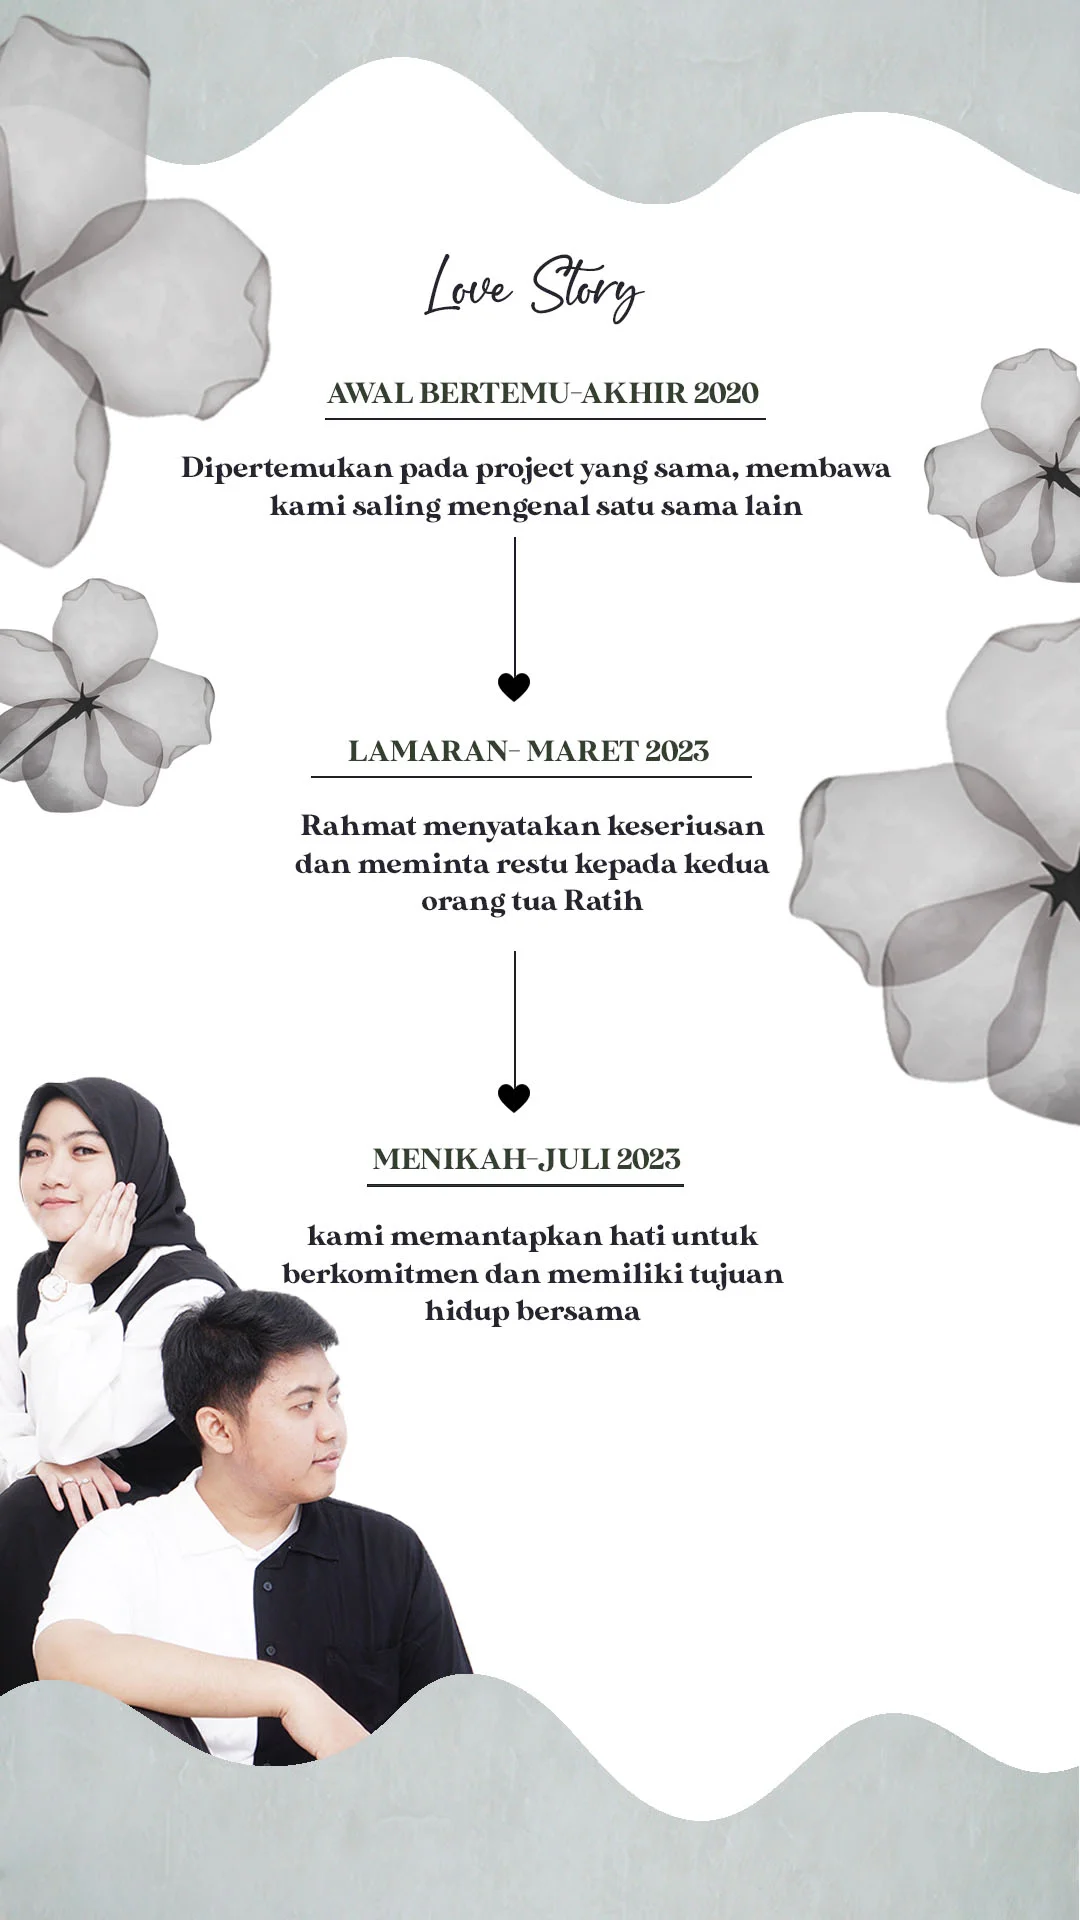
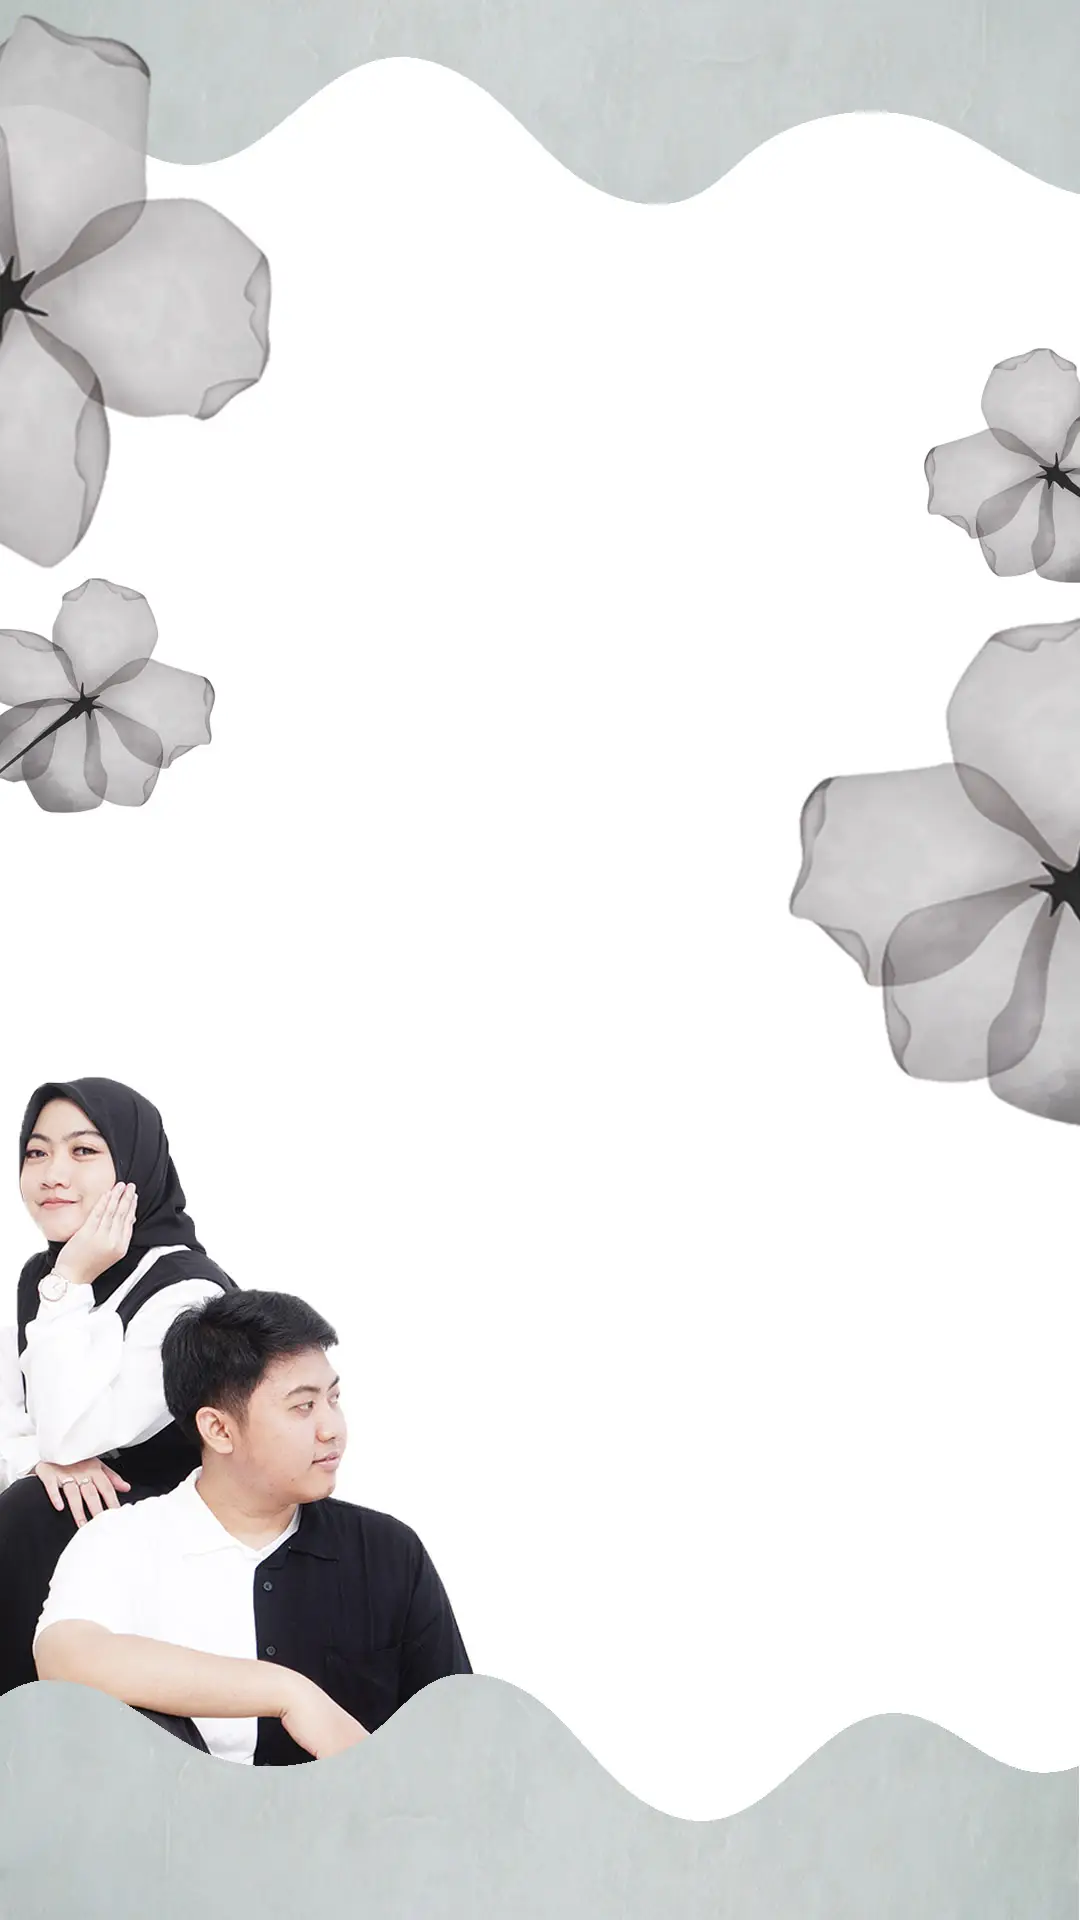
update

diff --git a/index.html b/index.html
@@ -56,8 +56,8 @@
     <main class="scrollspy-example text-light" data-bs-spy="scroll" data-bs-target="#navbar-example2"
         data-bs-root-margin="0px 0px -40%" data-bs-smooth-scroll="true" tabindex="0" style="overflow-x: hidden;">
 
-        <section class="img-bg" id="home">
-            <div class="text-end pt-4">
+        <section class="img-bg d-mobile" id="home">
+            <div class="text-end pt-4 pe-2">
                 <p style="
                     font-size: .7rem;
                     color: #585252;" data-aos="fade-left" data-aos-duration="500">
@@ -65,7 +65,7 @@
                     untuk menghadiri perayaan cinta
                 </p>
             </div>
-            <div class="text-end pe-2 pt-5">
+            <div class="text-end pe-4 pt-5">
                 <div class="text-home" data-aos="fade-left" data-aos-duration="1000">
                     Rahmat </div>
                 <div class="text-home" style="color: #585252;" data-aos="fade-left" data-aos-duration="1500">
@@ -83,7 +83,34 @@
             </div>
         </section>
 
-        <section class="container img-bg" id="mempelai">
+        <section class="img-bg d-web" id="home">
+            <div class="text-start pt-5 ps-2">
+                <p style="
+                    font-size: 1em;
+                    color: #585252;" data-aos="fade-right" data-aos-duration="500">
+                    Dengan hati yang berbahagia, kami mengundang anda<br>
+                    untuk menghadiri perayaan cinta
+                </p>
+            </div>
+            <div class="text-start pt-5 ps-4">
+                <div class="text-home" data-aos="fade-right" data-aos-duration="1000">
+                    Rahmat </div>
+                <div class="text-home" style="color: #585252;" data-aos="fade-right" data-aos-duration="1500">
+                    & </div>
+                <div class="text-home" data-aos="fade-right" data-aos-duration="2000">
+                    Ratih </div>
+                <div style="
+                font-size: 2em; 
+                color: #585252; 
+                margin-top: .7em;
+                letter-spacing: .5em;
+                font-weight: bold;" data-aos="fade-right" data-aos-duration="2500">
+                    01.07.23 </div>
+
+            </div>
+        </section>
+
+        <section class="d-mobile img-bg" id="mempelai">
             <div class="text-center">
                 <p style="
                     font-size: .8rem;
@@ -112,6 +139,8 @@
                 color: black;">Putra Bungsu dari Bapak Suganda (Alm) dan Ibu Siti Robiah</span>
                 </p>
         </section>
+
+        <section class="d-web img-bg" id="mempelai"></section>
 
         <div class="container">
             <div class="text-center text-arrum py-4">
@@ -183,8 +212,113 @@
             </div>
         </section>
 
-        <section class="container img-bg" id="love-story" data-aos="zoom-out" data-aos-offset="300"
-            data-aos-duration="2500" data-aos-easing="ease-in-sine"></section>
+        <section class="d-web img-bg" id="love-story">
+            <div class="text-center pt-5">
+                <p data-aos="fade-up" data-aos-duration="500" style="font-family: 'SweetRomance';
+                color: #5f3d22;
+                font-size: 2em;">
+                    Love Story
+                </p>
+            </div>
+            <div class="text-center pt-2">
+                <p data-aos="fade-up" data-aos-duration="500" style="
+                color: black;
+                font-size: 1em;
+                text-decoration: underline;">
+                    AWAL BERTEMU - AKHIR 2020
+                </p>
+                <p data-aos="fade-up" data-aos-duration="500" style="
+                color: #585252;
+                font-size: 1em;">
+                    Dipertemukan pada project yang sama, <br> membawa kami saling mengenal satu sama lain
+                </p>
+                <img src="assets/images/panah-cinta.webp" width="50px" data-aos="fade-up" data-aos-duration="750">
+            </div>
+            <div class="text-center pt-2">
+                <p data-aos="fade-up" data-aos-duration="1000" style="
+                color: black;
+                font-size: 1em;
+                text-decoration: underline;">
+                    LAMARAN - MARET 2023
+                </p>
+                <p data-aos="fade-up" data-aos-duration="1000" style="
+                color: #585252;
+                font-size: 1em;">
+                Rahmat menyatakan keseriusan <br> dan meminta restu kepada kedua <br> orang tua ratih
+                </p>
+                <img src="assets/images/panah-cinta.webp" width="50px" data-aos="fade-up" data-aos-duration="1250">
+            </div>
+            <div class="text-center pt-2">
+                <p data-aos="fade-up" data-aos-duration="1500" style="
+                color: black;
+                font-size: 1em;
+                text-decoration: underline;">
+                    MENIKAH - JULI 2023
+                </p>
+                <p data-aos="fade-up" data-aos-duration="1500" style="
+                color: #585252;
+                font-size: 1em;">
+                    kami memantapkan hati untuk <br> berkomitmen dan memiliki tujuan <br> hidup bersama
+                </p>
+            </div>
+        </section>
+
+        <section class="d-mobile img-bg" id="love-story">
+            <div class="text-center" style="margin-top: 10em;">
+                <p data-aos="fade-up" data-aos-duration="500" style="font-family: 'SweetRomance';
+                color: #5f3d22;
+                font-size: 2em;">
+                    Love Story
+                </p>
+            </div>
+            <div class="text-center">
+                <p data-aos="fade-up" data-aos-duration="500" style="
+                color: black;
+                font-size: .7em;
+                text-decoration: underline;
+                margin-bottom: .3em;">
+                    AWAL BERTEMU - AKHIR 2020
+                </p>
+                <p data-aos="fade-up" data-aos-duration="500" style="
+                color: #585252;
+                font-size: .7em;
+                margin-bottom: .3em;">
+                    Dipertemukan pada project yang sama, <br> membawa kami saling mengenal satu sama lain
+                </p>
+                <img src="assets/images/panah-cinta.webp" width="40px" data-aos="fade-up" data-aos-duration="750">
+            </div>
+            <div class="text-center">
+                <p data-aos="fade-up" data-aos-duration="1000" style="
+                color: black;
+                font-size: .7em;
+                text-decoration: underline;
+                margin-bottom: .3em;">
+                    LAMARAN - MARET 2023
+                </p>
+                <p data-aos="fade-up" data-aos-duration="1000" style="
+                color: #585252;
+                font-size: .7em;
+                margin-bottom: .3em;">
+                Rahmat menyatakan keseriusan <br> dan meminta restu kepada kedua <br> orang tua ratih
+                </p>
+                <img src="assets/images/panah-cinta.webp" width="40px" data-aos="fade-up" data-aos-duration="1250">
+            </div>
+            <div class="text-center">
+                <p data-aos="fade-up" data-aos-duration="1500" style="
+                color: black;
+                font-size: .7em;
+                text-decoration: underline;
+                margin-bottom: .3em;">
+                    MENIKAH - JULI 2023
+                </p>
+                <p data-aos="fade-up" data-aos-duration="1500" style="
+                color: #585252;
+                font-size: .7em;
+                margin-bottom: .3em;">
+                    kami memantapkan hati untuk <br> berkomitmen dan memiliki tujuan <br> hidup bersama
+                </p>
+            </div>
+        </section>
 
         <section id="galeri">
             <div class="container pb-2 pt-4">
@@ -193,7 +327,8 @@
                         style="font-size: 3rem; font-family: 'SweetRomance'; color: #5f3d22;">Galeri</h1>
 
                     <div id="carouselExampleIndicators" data-aos="fade-up" data-aos-duration="1500"
-                        class="carousel slide img-galery" data-bs-ride="carousel" style="margin-left: auto; margin-right: auto;">
+                        class="carousel slide img-galery" data-bs-ride="carousel"
+                        style="margin-left: auto; margin-right: auto;">
                         <div class="carousel-indicators">
                             <button type="button" data-bs-target="#carouselExampleIndicators" data-bs-slide-to="0"
                                 class="active" aria-current="true" aria-label="Slide 1"></button>
@@ -234,7 +369,9 @@
         <div class="container">
             <div class="py-4">
                 <div class="text-center">
-                    <h1 class="font-estetik mt-0 mb-3" style="font-size: 3rem; font-family: 'SweetRomance' !important; color: #5f3d22 !important;">Love Gift</h1>
+                    <h1 class="font-estetik mt-0 mb-3"
+                        style="font-size: 3rem; font-family: 'SweetRomance' !important; color: #5f3d22 !important;">Love
+                        Gift</h1>
                     <p class="mb-1" style="font-size: 0.9rem; color: #585252;">
                         Tanpa mengurangi rasa hormat, bagi anda yang ingin memberikan tanda kasih untuk kami,
                         dapat melalui :
@@ -242,8 +379,8 @@
 
                     <div class="overflow-x-hidden">
                         <div class="row justify-content-center">
-                            <div class="col-12 card-body p-3 m-3" style="max-width: 25rem;"
-                                data-aos="fade-down" data-aos-duration="1500">
+                            <div class="col-12 card-body p-3 m-3" style="max-width: 25rem;" data-aos="fade-down"
+                                data-aos-duration="1500">
                                 <img src="assets/images/qr.webp" class="img-fluid rounded" width="300" alt="qr">
                                 <p class="card-text bg-white mt-4 rounded-4">
                                     <img src="assets/images/qr2.webp" class="img-fluid rounded" width="400" alt="bni">
@@ -258,7 +395,9 @@
         <section id="ucapan">
             <div class="container">
                 <div class="card-body border rounded-4 shadow p-3">
-                    <h1 class="font-estetik text-center mb-3" style="font-size: 3rem; font-family: 'SweetRomance' !important; color: #5f3d22 !important;">Ucapan & Doa</h1>
+                    <h1 class="font-estetik text-center mb-3"
+                        style="font-size: 3rem; font-family: 'SweetRomance' !important; color: #5f3d22 !important;">
+                        Ucapan & Doa</h1>
                     <input type="hidden" id="idbalasan">
                     <div class="mb-1" id="balasan"></div>
                     <div class="mb-3">
@@ -323,7 +462,7 @@
                         Merupakan suatu kehormatan dan kebahagiaan bagi kami apabila, Bapak / Ibu / Saudara / i.
                         berkenan hadir untuk memberikan do'a restunya kami ucapkan terimakasih.
                     </p>
-                    
+
                     <hr class="mt-3 mb-2">
                     <div class="row align-items-center justify-content-between flex-column flex-sm-row">
                         <div class="col-auto">

diff --git a/css/custom.min.css b/css/custom.min.css
@@ -78,10 +78,56 @@ body {
     background-image: url('../assets/images/home-web.webp');
 }
 
+.img-bg {
+    background-size: cover;
+    background-position: center;
+    background-repeat: no-repeat;
+    height: 100vh;
+    overflow-x: hidden
+}
+
+.d-mobile {
+    display: none;
+}
+
+.d-web {
+    display: block;
+}
+
+.text-home {
+    font-size: 5rem;
+    color: #5f3d22;
+    line-height: 1.2em;
+    font-family: SweetRomance;
+    letter-spacing: .1em;
+}
+
+#mempelai {
+    background-image: url('../assets/images/mempelai-web.webp');
+}
+
+.text-arrum {
+    font-size: 1em;
+    color: #585252;
+}
+
+#love-story {
+    background-image: url('../assets/images/love-story-web.webp');
+    background-size: cover;
+    overflow-x: hidden;
+}
 
 @media only screen and (max-width: 767px) {
     body {
         background-image: url('../assets/images/bg-mobile.webp');
+    }
+
+    .d-web {
+        display: none;
+    }
+
+    .d-mobile {
+        display: block ;
     }
 
     .modal-cover {
